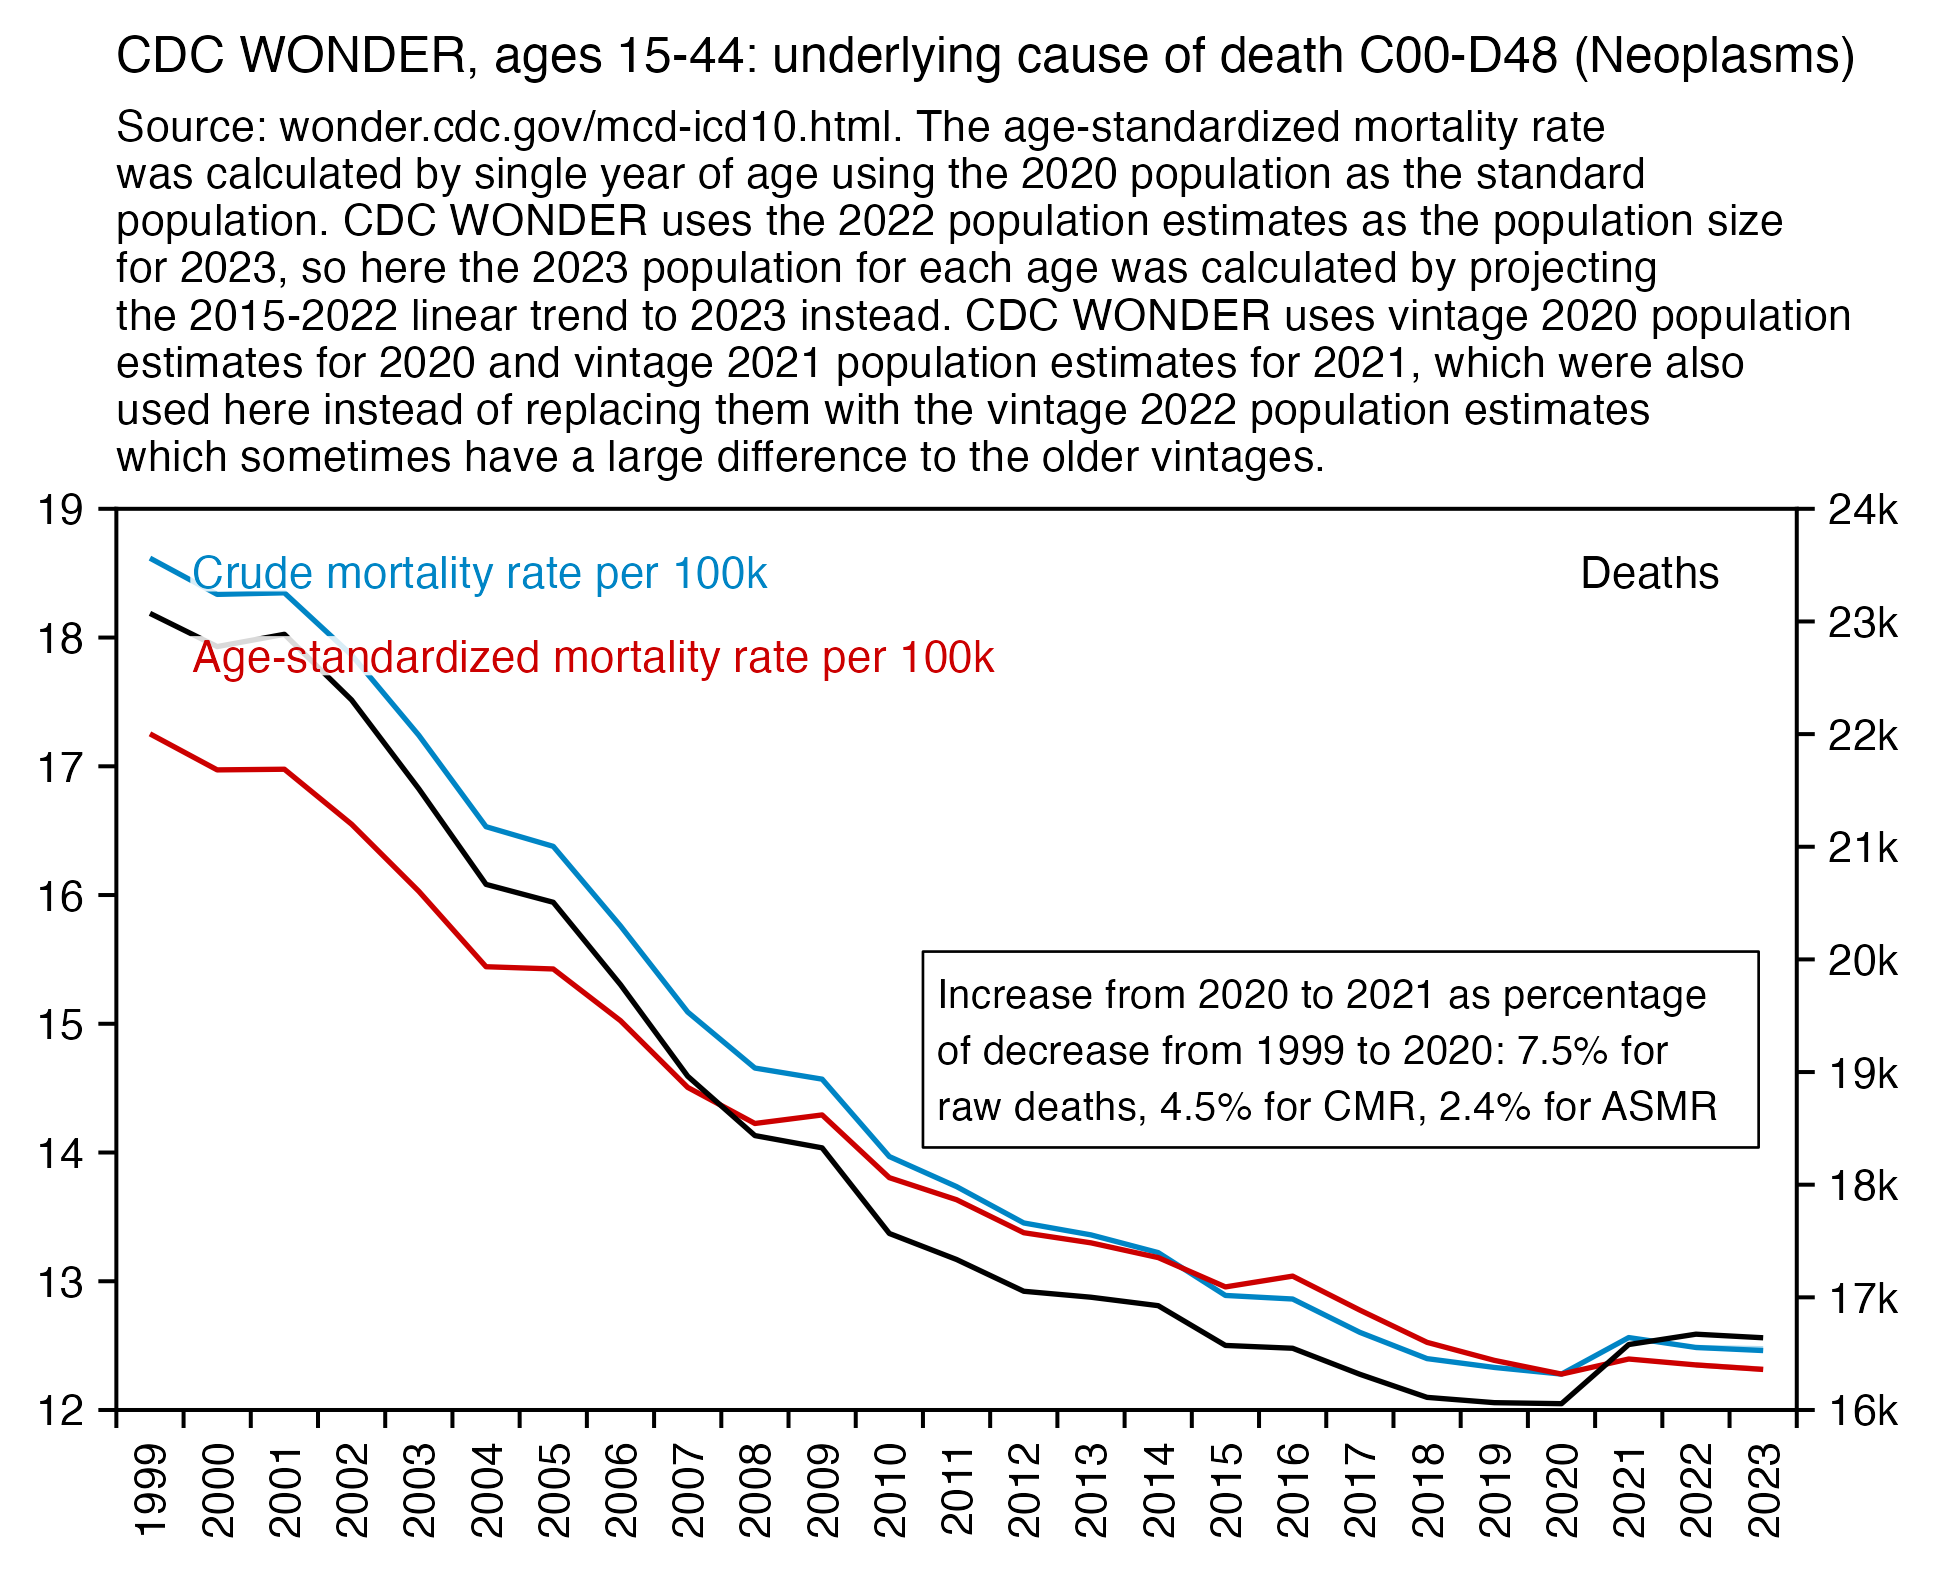
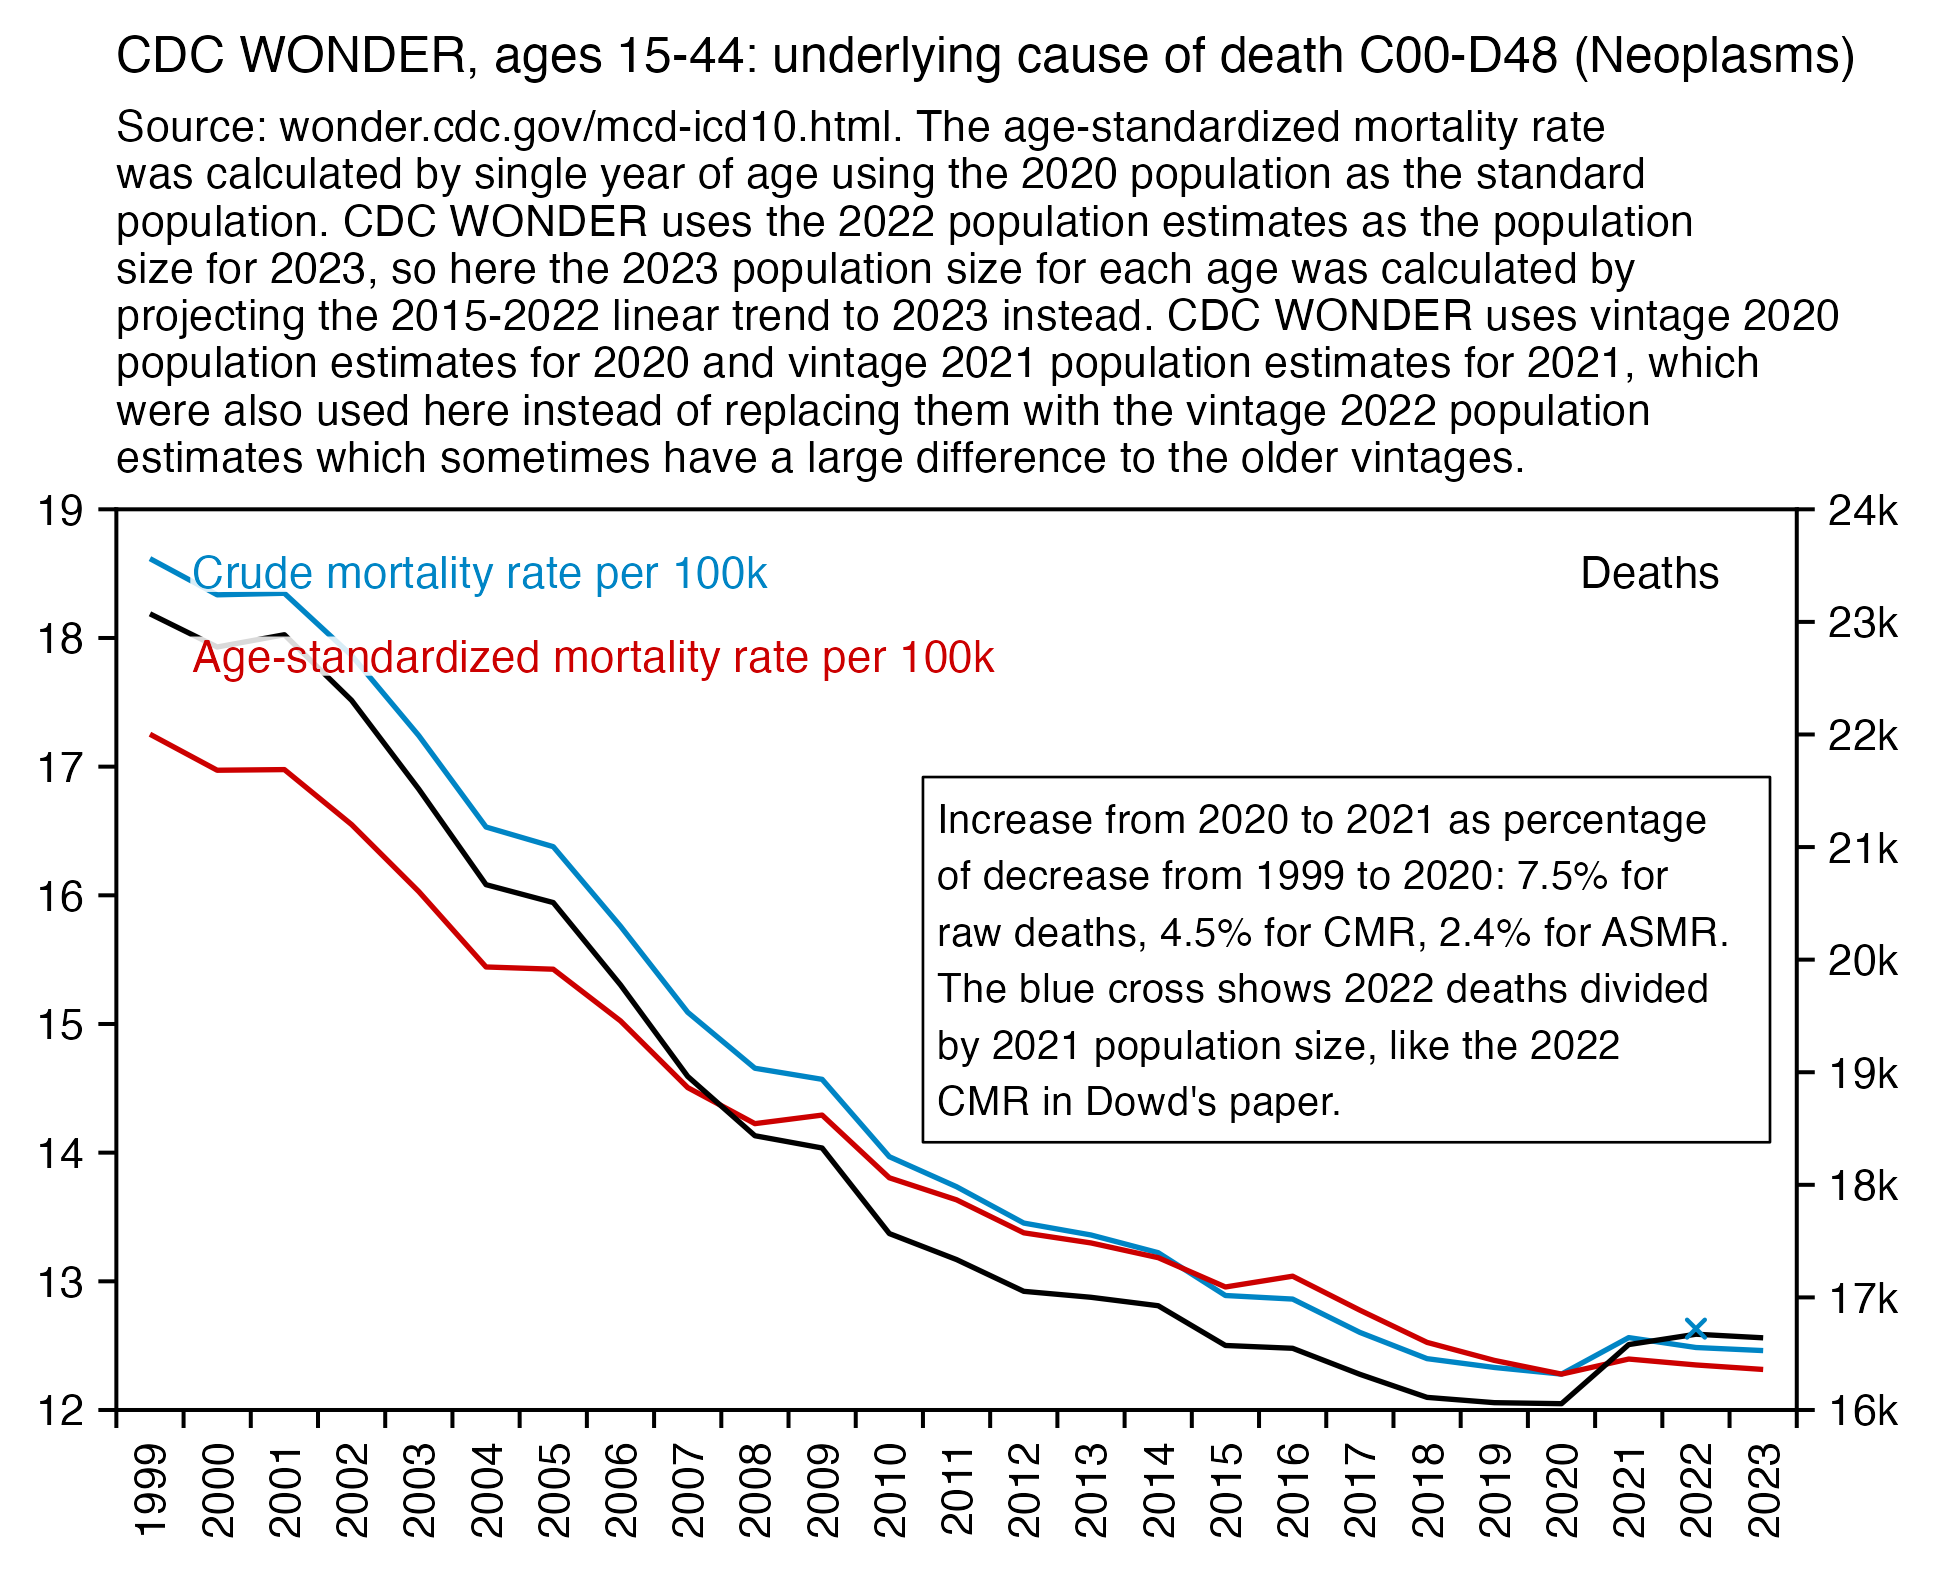
a

Changed region(s): [[0.062, 0.1244, 0.9612, 0.3111], [0.4651, 0.4978, 0.9302, 0.7467], [0.8682, 0.1244, 0.9302, 0.1556]]

diff --git a/statistic.html b/statistic.html
@@ -648,7 +648,7 @@ ggsave(&quot;1.png&quot;,width=3,height=3,dpi=450)</pre>
 <img src="i/neil-sim-7.png">
 </div>
 <p>In the old Substack post where Fenton and Neil described their simulation procedure in more detail, even people in their comment section were able to tell that it was BS, so I wonder if that's why they didn't include a proper description of their simulation procedure in their new preprint.</p>
-<p>In any case Neil and Fenton knew that their method of doing the simulations was controversial, so they could've mentioned in their preprint that there would also be an alternative way to perform the simulations where the 1-to-3-week delay is also applied to the denominator and which produces completely different results, and that they were not sure which method was used in the real studies they listed in their paper.</p>
+<p>In any case Neil and Fenton knew that their method of doing the simulations was controversial, so they could've mentioned in their preprint that there would also be an alternative way to perform the simulations where the 1-to-3-week delay is also applied to the denominator, and that they were not sure which method was used in the real studies they listed in their paper.</p>
 <h2>
 <a href=#Wouter_Aukema_Dutch_CBS_mortality_statistics_by_vaccination_status id=Wouter_Aukema_Dutch_CBS_mortality_statistics_by_vaccination_status>Wouter Aukema: Dutch CBS mortality statistics by vaccination status</a>
 </h2>
@@ -1209,7 +1209,7 @@ system(&quot;f=0.png;w=`identify -format %w $f`;convert -interline-spacing -2 -g
 <div class="width5">
 <img src="i/caliage-5.png">
 </div>
-<p>In the heatmap below, within five out of six age groups the total UCoD COVID CMR in 2020-2023 was much higher among Hispanic people than whites. But in ages 85+ Hispanics had only slightly higher CMR than whites, which might be if whites are overrepresented in the upper end of the age category relative to Hispanics. However for some reason in the year 2023 Hispanics had lower COVID CMR than whites in all age groups:</p>
+<p>In the heatmap below, within five out of six age groups the total UCoD COVID CMR in 2020-2023 was much higher among Hispanic people than whites. But in ages 85+ Hispanics had only slightly higher CMR than whites, which might be if whites are overrepresented in the upper end of the 85+ age category relative to Hispanics. However for some reason in the year 2023 Hispanics had lower COVID CMR than whites in all age groups:</p>
 <div class="width8">
 <img src="i/statistic-caliage-5.png">
 </div>
@@ -1235,12 +1235,15 @@ system(&quot;f=0.png;w=`identify -format %w $f`;convert -interline-spacing -2 -g
 <div class="width4">
 <img src="i/statistic-dowd-1.jpg">
 </div>
-<p>However the x-axis in the plots above started in 2010, so you couldn't see that the the increase in mortality between 2020 and 2021 wasn't that big compared to the decrease since 1999 which is when the data at CDC WONDER starts. And you also couldn't see that the long-term trend in CMR between 1999 and 2020 looked curved so that it got flatter over time, and therefore the 2010-2019 linear trend used by Dowd's group might have been too steep relative to a longer-term polynomial trend.</p>
-<p>In Dowd's preprint they also didn't plot ASMR but only CMR, so you couldn't see that if for example the increase between 2020 and 2021 is compared to the decrease in mortality between 1999 and 2020, the relative increase was much smaller for ASMR than CMR:</p>
+<p>However the x-axis in the plots above started in 2010, so you couldn't see that the the increase in mortality between 2020 and 2021 wasn't that big compared to the decrease since 1999 which is when the data at CDC WONDER starts. And you also couldn't see that the long-term trend in CMR between 1999 and 2020 looked curved so that it got flatter over time, and therefore the 2010-2019 linear trend used by Dowd's group might have been too steep relative to a longer-term polynomial trend:</p>
+<div class="width6">
+<img src="i/statistic-dowd-4.png">
+</div>
+<p>In Dowd's preprint they plotted only CMR and raw deaths but not ASMR. But relative to the decrease in mortality rate in the two previous decades, the increase between 2020 and 2021 was smaller with CMR than raw deaths, and it was even smaller with ASMR than CMR:</p>
 <div class="width6">
 <img src="i/statistic-dowd-2.png">
 </div>
-<p>Dowd's team retrieved the data from CDC WONDER when it still used 2021 population estimates for 2022, so they got higher CMR in 2022 than 2021, like how the blue cross in the plot above is higher than the 2021 CMR. But I retrieved data from CDC WONDER after the 2022 population sizes had already been added, so I got lower CMR in 2022 than 2021.</p>
+<p>Dowd's team retrieved the data from CDC WONDER when it still used 2021 population estimates for 2022, so they got higher CMR in 2022 than 2021, like how the blue cross in my plot above is higher than the 2021 CMR. But I retrieved data from CDC WONDER after the 2022 population sizes had already been added, so I got lower CMR in 2022 than 2021.</p>
 <p>Here you can see that the 2023 population size is identical to 2022 because 2023 population estimates have not yet been added to CDC WONDER:</p>
 <pre>&gt; t=read.csv(&quot;http://sars2.net/f/wondercanceryearlysingle.csv&quot;)|&gt;subset(age%in%15:44)
 &gt; a=aggregate(t[,3:4],t[,2,drop=F],sum)
